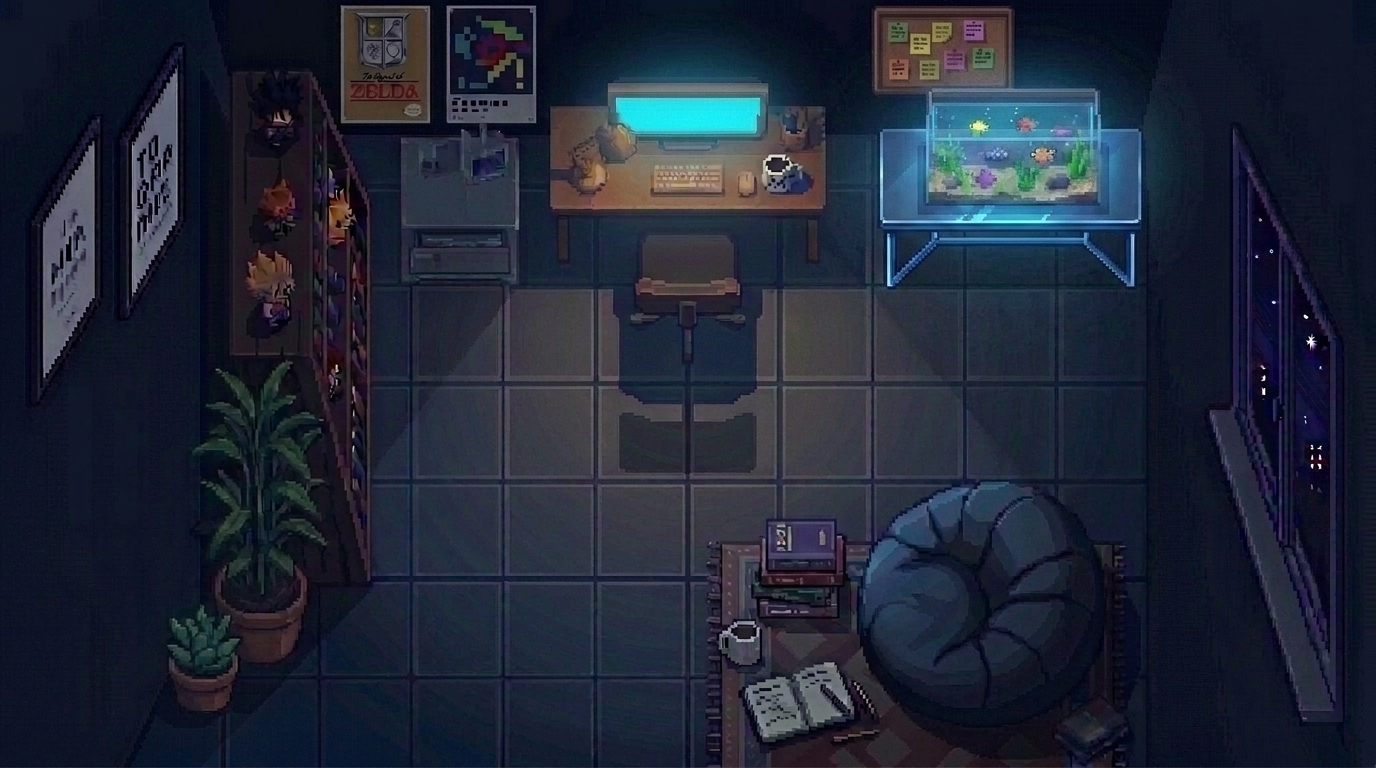
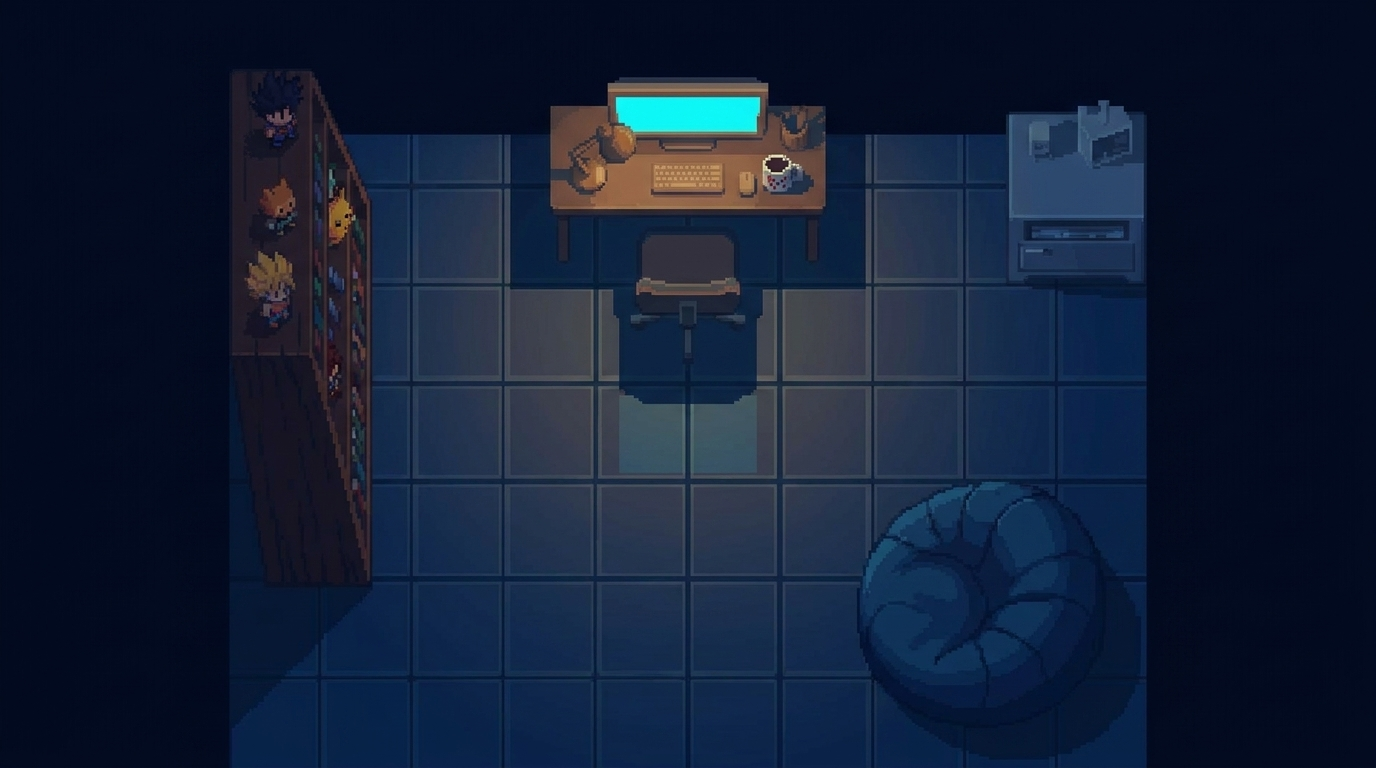
k

diff --git a/src/Components/DialogueModal.tsx b/src/Components/DialogueModal.tsx
@@ -1,4 +1,4 @@
-import React, { useState } from 'react';
+import React, { useState, useEffect } from 'react';
 import { PORTFOLIO_CONTENT, ProjectItem } from '../game/data/content';
 import { FaExternalLinkAlt, FaGithub, FaChevronLeft, FaChevronRight, FaTimes } from 'react-icons/fa';
 
@@ -11,6 +11,13 @@ export default function DialogueModal({ sectionId, onClose }: DialogueModalProps
   const content = PORTFOLIO_CONTENT[sectionId];
   const [projectIndex, setProjectIndex] = useState(0);
   const [activeImageIndex, setActiveImageIndex] = useState(0);
+  const [isOpen, setIsOpen] = useState(false);
+
+  // Trigger the slide-up animation on mount
+  useEffect(() => {
+    const raf = requestAnimationFrame(() => setIsOpen(true));
+    return () => cancelAnimationFrame(raf);
+  }, []);
 
   if (!content) return null;
 
@@ -44,15 +51,19 @@ export default function DialogueModal({ sectionId, onClose }: DialogueModalProps
     setActiveImageIndex((prev) => (prev - 1 + projectImages.length) % projectImages.length);
   };
 
-  const modalBorderColor = isProjectsSection ? 'var(--accent-teal)' : 'var(--accent-pink)';
+  // Derive panel classes: always 'dialogue-panel', add 'open' when mounted, 'project-mode' for projects
+  const panelClasses = [
+    'dialogue-panel',
+    isOpen ? 'open' : '',
+    isProjectsSection ? 'project-mode' : '',
+  ].filter(Boolean).join(' ');
 
   return (
+    // Transparent full-screen click-catcher — no flex centering
     <div style={backdropStyle} onClick={onClose}>
       <div
-        style={{
-          ...modalStyle,
-          border: `3px solid ${modalBorderColor}`,
-        }}
+        className={panelClasses}
+        style={dialoguePanelStyle}
         onClick={(e) => e.stopPropagation()}
       >
         {/* Header */}
@@ -68,7 +79,7 @@ export default function DialogueModal({ sectionId, onClose }: DialogueModalProps
             </div>
             <p style={subtitleStyle}>{content.subtitle}</p>
           </div>
-          <button style={{ ...closeBtnStyle, border: `2px solid ${modalBorderColor}` }} onClick={onClose} aria-label="Close modal">
+          <button style={{ ...closeBtnStyle, border: `2px solid ${isProjectsSection ? '#4ecdc4' : '#ff6b9d'}` }} onClick={onClose} aria-label="Close modal">
             <FaTimes style={{ marginRight: '4px' }} /> CLOSE
           </button>
         </div>
@@ -213,31 +224,32 @@ export default function DialogueModal({ sectionId, onClose }: DialogueModalProps
   );
 }
 
+/* Transparent full-screen click-catcher — no centering, no flex */
 const backdropStyle: React.CSSProperties = {
   position: 'fixed',
   top: 0,
   left: 0,
   width: '100vw',
   height: '100vh',
-  backgroundColor: 'rgba(8, 17, 25, 0.8)',
-  display: 'flex',
-  justifyContent: 'center',
-  alignItems: 'center',
-  zIndex: 1000,
-  padding: '1rem',
-  boxSizing: 'border-box',
+  backgroundColor: 'rgba(8, 17, 25, 0.55)',
+  zIndex: 999,
 };
 
-const modalStyle: React.CSSProperties = {
-  background: 'linear-gradient(180deg, var(--wall-mid), var(--bg-deep))',
-  boxShadow: '5px 5px 0 #000',
-  maxWidth: '680px',
-  width: '100%',
-  maxHeight: '90vh',
+/*
+ * Bottom-anchored RPG dialogue panel.
+ * Closed state: transform: translate(-50%, 140%) — pushed fully below viewport.
+ * Open state (.open class): transform: translate(-50%, 0%) — slides up into view.
+ * Project-mode (.project-mode class): narrower width + teal border.
+ *
+ * CSS classes are injected via a <style> tag rendered once by this component.
+ */
+const dialoguePanelStyle: React.CSSProperties = {
+  /* Base layout — scrollable body */
   display: 'flex',
   flexDirection: 'column',
   overflow: 'hidden',
   color: 'var(--parchment)',
+  maxHeight: '82vh',
 };
 
 const headerStyle: React.CSSProperties = {

diff --git a/src/index.css b/src/index.css
@@ -97,3 +97,37 @@ p, span, li, div {
   background: var(--wall-mid);
   border: 1px solid var(--accent-gold);
 }
+
+/* ============================================================
+ * RPG Dialogue Panel — bottom-anchored, slides up into view
+ * ============================================================ */
+.dialogue-panel {
+  position: fixed;
+  left: 50%;
+  bottom: 18px;
+  transform: translate(-50%, 140%); /* off-screen, below viewport, when closed */
+  width: min(760px, 92vw);
+  background: linear-gradient(180deg, #16283e, #0d1b2a);
+  border: 3px solid #ff6b9d;
+  box-shadow: 4px 4px 0 #000;
+  padding: 14px 18px 16px;
+  z-index: 1000;
+  transition: transform 0.35s cubic-bezier(.2,.9,.3,1.3), width 0.2s;
+}
+
+.dialogue-panel.open {
+  transform: translate(-50%, 0%); /* slides up into view when open */
+}
+
+.dialogue-panel.project-mode {
+  width: min(620px, 94vw);
+  border-color: #4ecdc4; /* teal border for the project showcase variant */
+}
+
+/* ============================================================
+ * Toast notification — slides down from top
+ * ============================================================ */
+@keyframes slideDown {
+  from { transform: translate(-50%, -160%); }
+  to   { transform: translate(-50%, 0%); }
+}

diff --git a/src/Components/PortfolioApp.tsx b/src/Components/PortfolioApp.tsx
@@ -329,16 +329,16 @@ const keyBadgeStyle: React.CSSProperties = {
 
 const toastStyle: React.CSSProperties = {
   position: 'fixed',
-  top: '5rem',
+  top: '14px',
   left: '50%',
-  transform: 'translateX(-50%)',
+  transform: 'translate(-50%, 0%)', /* in-view — slideDown animation brings it from -160% */
   background: 'linear-gradient(180deg, var(--wall-mid), var(--bg-deep))',
   border: '2px solid var(--accent-gold)',
   boxShadow: '4px 4px 0 #000',
   padding: '10px 20px',
   textAlign: 'center',
   zIndex: 950,
-  animation: 'slideDown 0.3s ease-out',
+  animation: 'slideDown 0.3s cubic-bezier(.2,.9,.3,1.3) both',
 };
 
 const toastTitleStyle: React.CSSProperties = {
